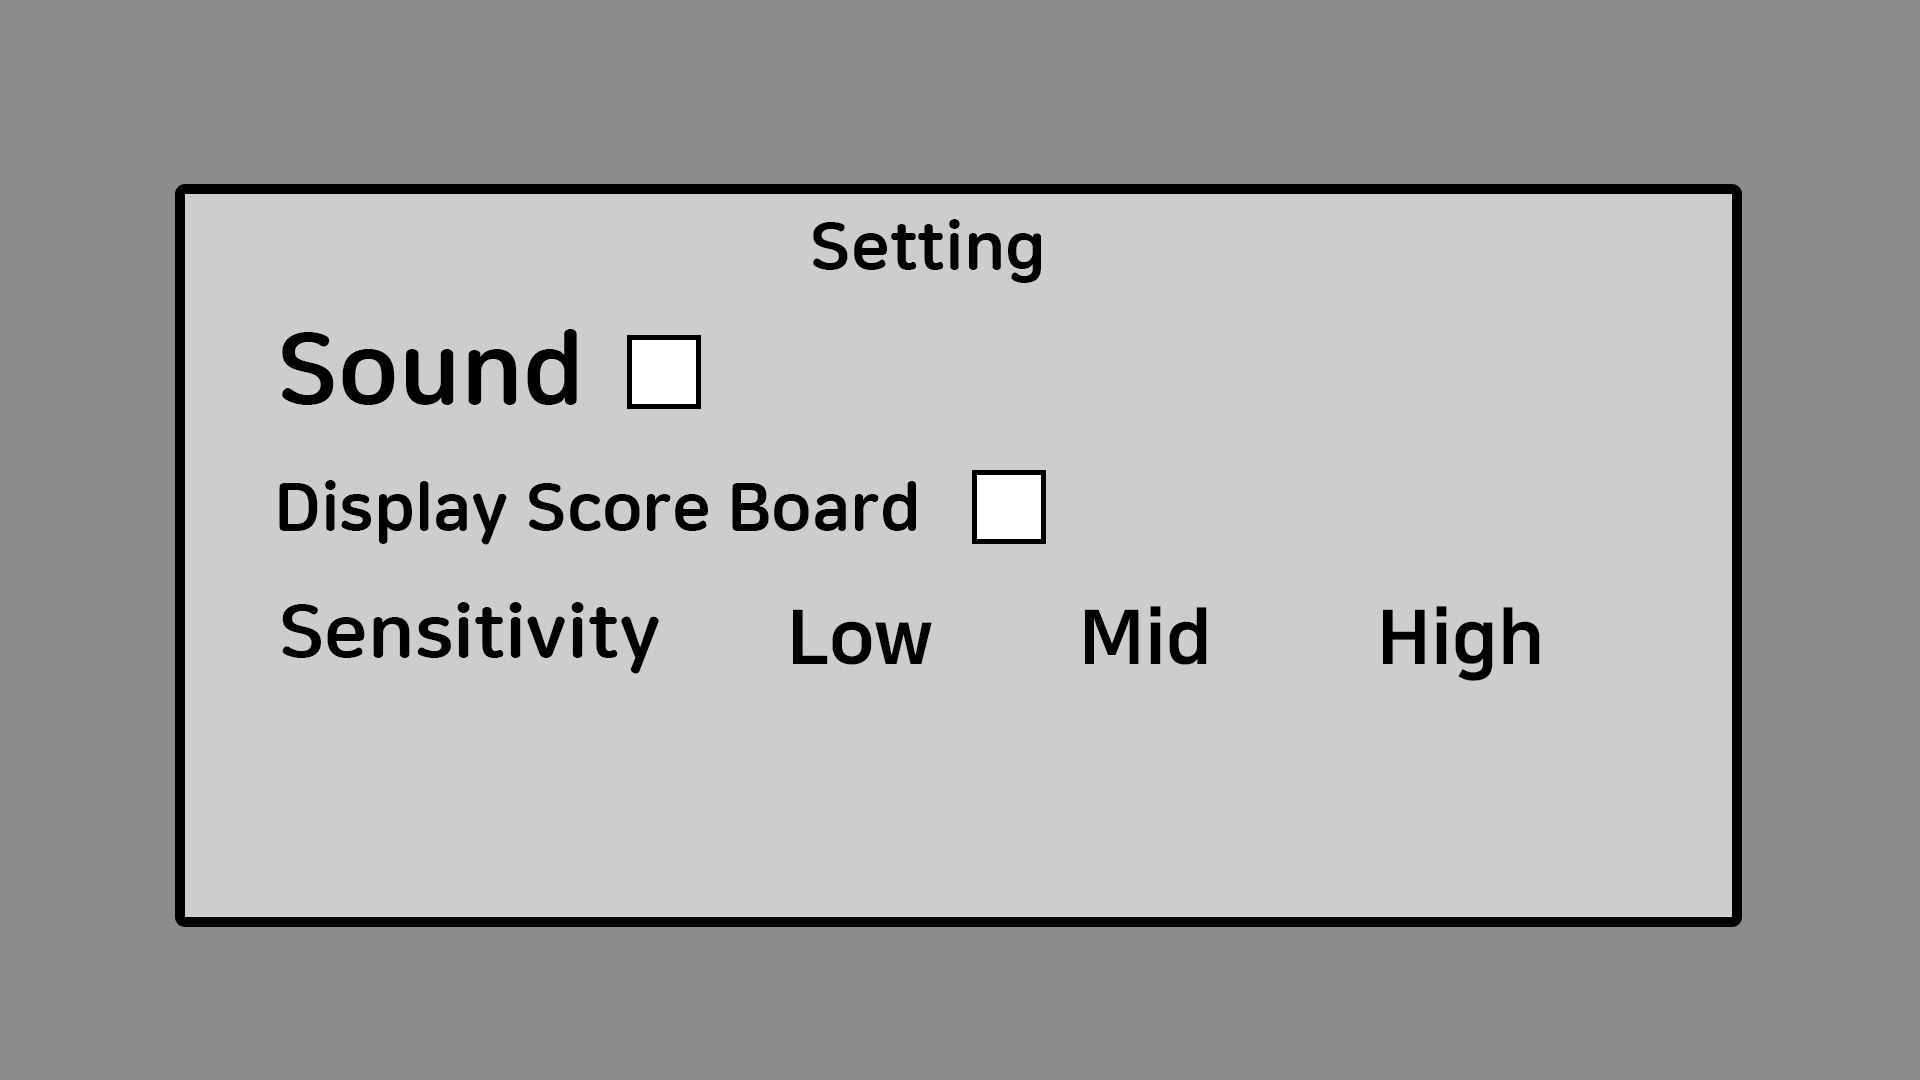
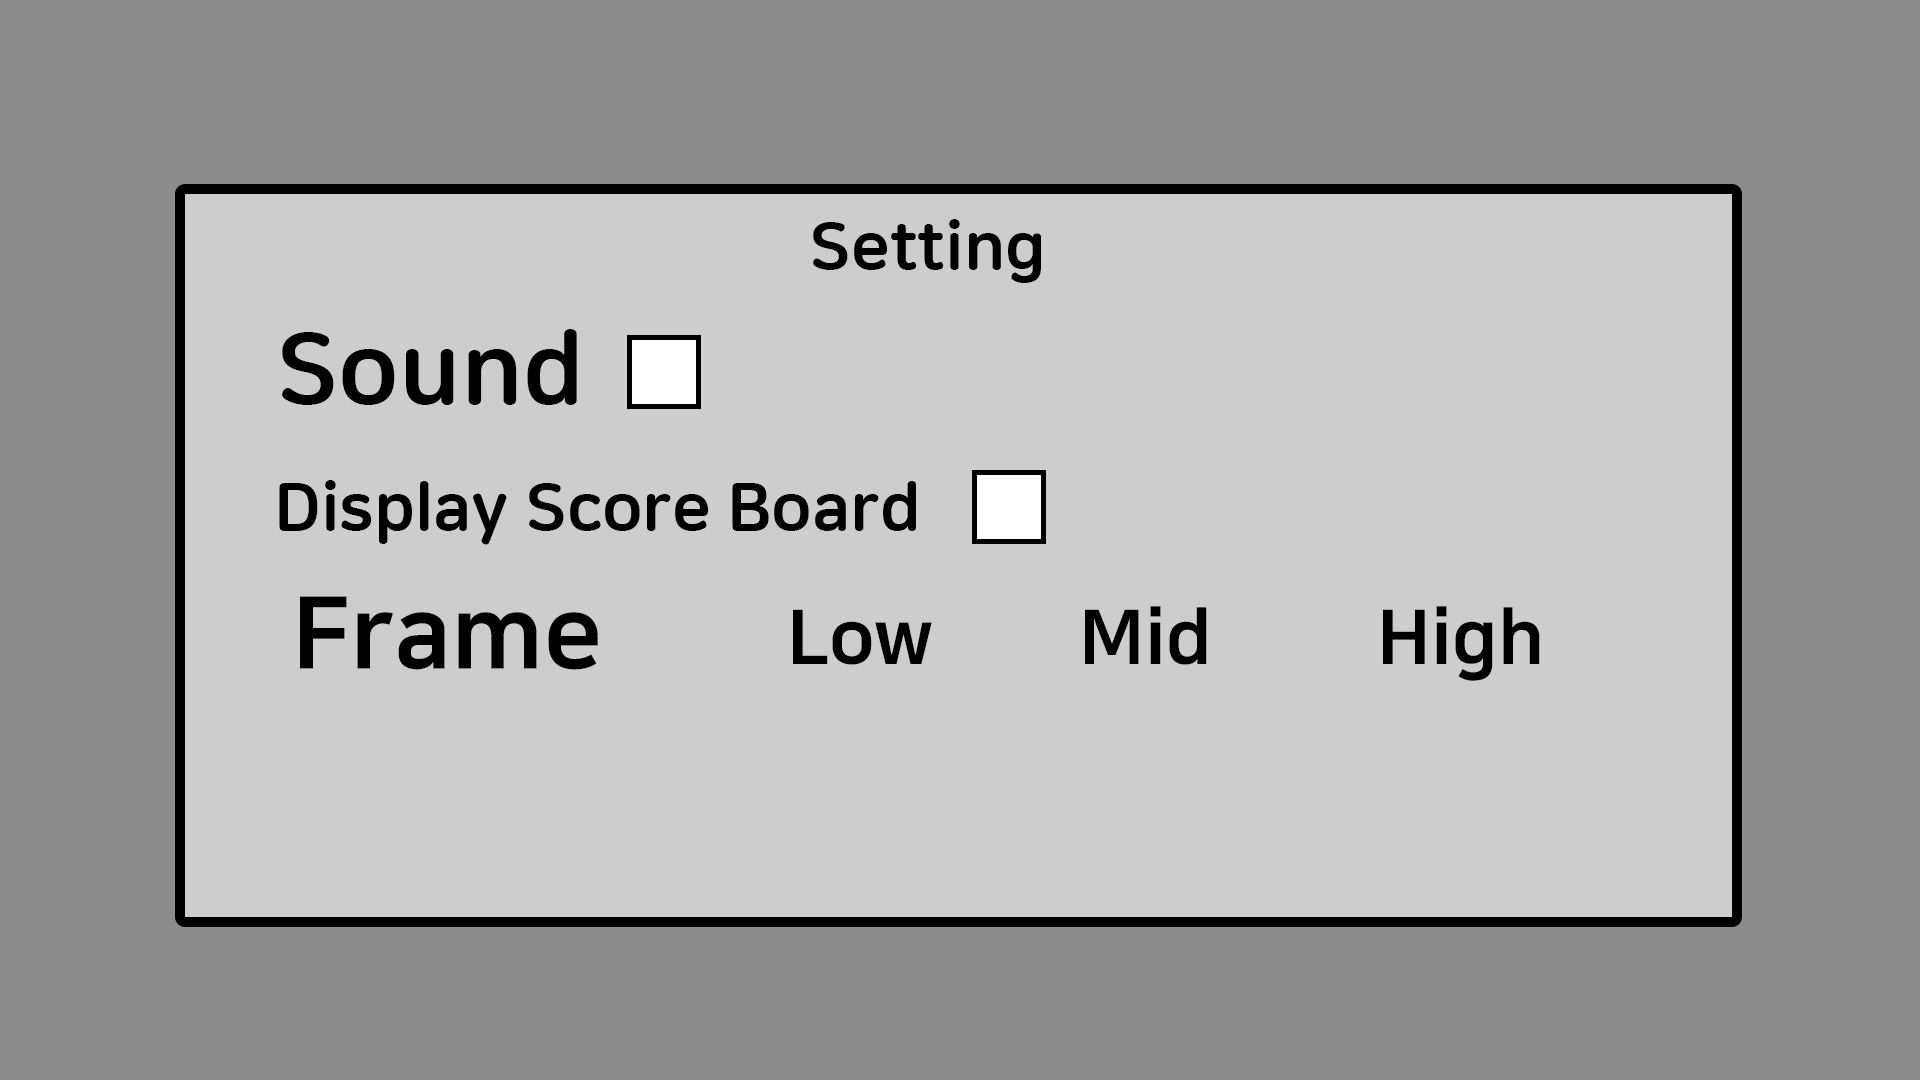
Main v1.0
설정 완전구현
그이후 뭔가 대충 수정됨
참고) 브금 주석처리되어있으니 활성화 시킬것

Changed region(s): [[0.125, 0.55, 0.3438, 0.6417]]

diff --git a/Main.py b/Main.py
@@ -14,7 +14,7 @@ config.read(configFilePath)
 FullToggle = config.get("Setting", "Fullscreen_Toggle")
 SoundToggle = config.get("Setting", "Sound")
 ScoreToggle = config.get("Setting", "Display_Score")
-Sensitive = config.get("Setting", "Sensitive")
+Frame = config.get("Setting", "Frame")
 
 # Pygame Initialize
 pygame.init()
@@ -39,6 +39,7 @@ Setting_Screen = pygame.image.load("game/image/Setting_Screen.png")
 Chk = pygame.image.load("game/image/Chk.png")
 Chk_2 = pygame.image.load("game/image/Chk.png")
 Chk_Box = pygame.image.load("game/image/Chk_Box.png")
+hidden_content = pygame.image.load("game/image/hidden_content.png")
 Click_Sound = pygame.mixer.Sound("game/audio/click.wav")
 die_sound = pygame.mixer.Sound("game/audio/diesound.wav")
 
@@ -64,23 +65,18 @@ exit_button = button(1300, 880, 481, 110)
 
 # Here is Main
 def Start_Menu():
-    pygame.mixer.music.load('game/audio/Main_bgm.mp3')
-    pygame.mixer.music.play(-1)
+    #pygame.mixer.music.load('game/audio/Main_bgm.mp3')
+    #pygame.mixer.music.play(-1)
     while True:
-        screen.blit(Start_background, (0, 0))
-        screen.blit(Setting_Button, (1770, 20))
-        screen.blit(Help_Button, (1680, 20))
-        screen.blit(Start_Button, (1240, 540))
-        screen.blit(Score_Button, (1240, 715))
-        screen.blit(Exit_Button, (1300, 880))
+        show_screen()
         for event in pygame.event.get():
             pos = pygame.mouse.get_pos()
             if event.type == pygame.MOUSEBUTTONDOWN:
                 if s_button.isOver(pos):
                     pygame.mixer.Sound.play(Click_Sound)
-                    pygame.mixer.music.pause()
+                    #pygame.mixer.music.pause()
                     Game_Menu()
-                    pygame.mixer.music.unpause()
+                    #pygame.mixer.music.unpause()
                 if setting_button.isOver(pos):
                     pygame.mixer.Sound.play(Click_Sound)
                     Setting_Menu()
@@ -127,45 +123,62 @@ def Setting_Menu():
     screen.blit(Setting_Screen, (0,0))
     Sound_Button = button(625, 335, 75, 75)
     Score_Button = button(970, 475, 75, 75)
-    Sensitive_LOW_Button = button(780, 600, 160, 80)
-    Sensitive_MID_Button = button(1065, 600, 160, 80)
-    Sensitive_HIGH_Button = button(1380, 600, 160, 80)
+    Frame_LOW_Button = button(780, 600, 160, 80)
+    Frame_MID_Button = button(1065, 600, 160, 80)
+    Frame_HIGH_Button = button(1380, 600, 160, 80)
 
     while running:
+        global SoundToggle
+        global ScoreToggle
+        global Frame
         if SoundToggle == "True":
             screen.blit(Chk, (600, 320))
+        else:
+            screen.blit(Chk, (width, height))
         if ScoreToggle == "True":
             screen.blit(Chk_2, (945, 460))
-        if Sensitive == "Low":
+        else:
+            screen.blit(Chk_2, (width, height))
+        if Frame == "Low":
             screen.blit(Chk_Box, (775, 600))
-        if Sensitive == "Mid":
+        if Frame == "Mid":
             screen.blit(Chk_Box, (1060, 600))
-        if Sensitive == "High":
+        if Frame == "High":
             screen.blit(Chk_Box, (1375, 600))
+
         for event in pygame.event.get():
             pos = pygame.mouse.get_pos()
             if event.type == pygame.MOUSEBUTTONDOWN:
+                show_screen()
+                screen.blit(Setting_Screen, (0, 0))
                 if Sound_Button.isOver(pos):
                     pygame.mixer.Sound.play(Click_Sound)
                     if SoundToggle == "False":
                         config.set("Setting", "Sound", "True")
+                        SoundToggle = "True"
                     else:
+                        SoundToggle = "False"
                         config.set("Setting", "Sound", "False")
                 if Score_Button.isOver(pos):
                     pygame.mixer.Sound.play(Click_Sound)
                     if ScoreToggle == "False":
+                        ScoreToggle = "True"
                         config.set("Setting", "Display_Score", "True")
                     else:
+                        ScoreToggle = "False"
                         config.set("Setting", "Display_Score", "False")
-                if Sensitive_LOW_Button.isOver(pos):
+                if Frame_LOW_Button.isOver(pos):
                     pygame.mixer.Sound.play(Click_Sound)
-                    config.set("Setting", "Sensitive", "Low")
-                if Sensitive_MID_Button.isOver(pos):
+                    Frame = "Low"
+                    config.set("Setting", "Frame", "Low")
+                if Frame_MID_Button.isOver(pos):
                     pygame.mixer.Sound.play(Click_Sound)
-                    config.set("Setting", "Sensitive", "Mid")
-                if Sensitive_HIGH_Button.isOver(pos):
+                    Frame = "Mid"
+                    config.set("Setting", "Frame", "Mid")
+                if Frame_HIGH_Button.isOver(pos):
                     pygame.mixer.Sound.play(Click_Sound)
-                    config.set("Setting", "Sensitive", "High")
+                    Frame = "High"
+                    config.set("Setting", "Frame", "High")
                 ConfigFile = open('game/data/Setting.cfg', 'w')
                 config.write(ConfigFile)
                 ConfigFile.close()
@@ -213,11 +226,26 @@ def Score_Menu():
 
 def Help_Menu():
     running = True
+    screen.blit(Gray_Background, (0, 0))
     while running:
+        screen.blit(hidden_content, (225, 225))
+        screen.blit(hidden_content, (225, 570))
+        pygame.display.flip()
         for event in pygame.event.get():
+            if event.type == pygame.KEYDOWN:
+                if event.key == pygame.K_ESCAPE:
+                    running = 0
             if event.type == pygame.QUIT:
                 pygame.quit()
                 sys.exit()
 
+
+def show_screen():
+    screen.blit(Start_background, (0, 0))
+    screen.blit(Setting_Button, (1770, 20))
+    screen.blit(Help_Button, (1680, 20))
+    screen.blit(Start_Button, (1240, 540))
+    screen.blit(Score_Button, (1240, 715))
+    screen.blit(Exit_Button, (1300, 880))
 
 Start_Menu()
